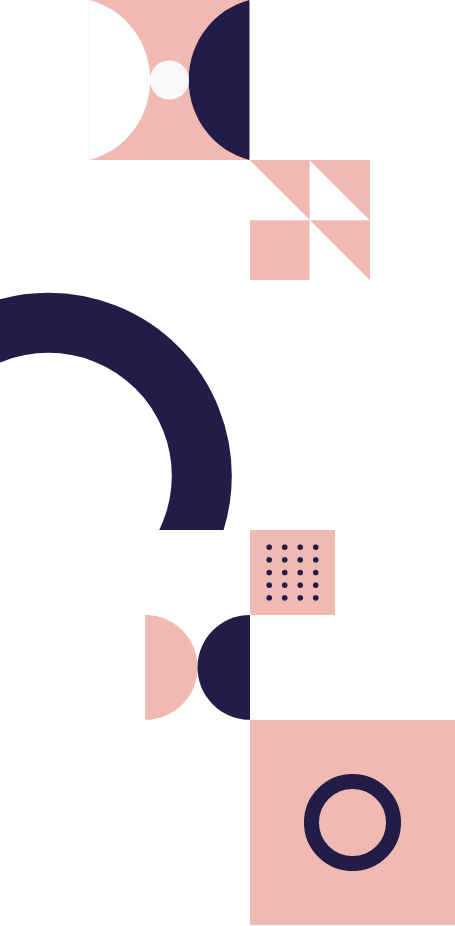
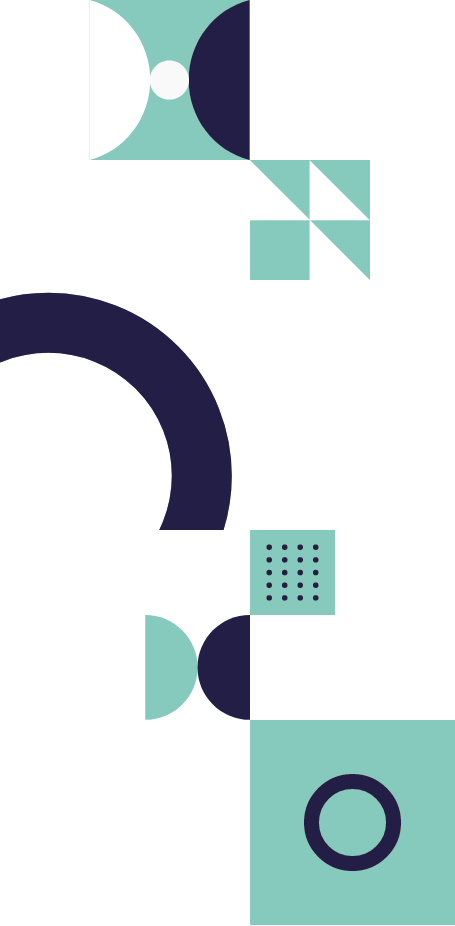
changed a shit ton of images (colors)

diff --git a/assets/css/style.css b/assets/css/style.css
@@ -2899,7 +2899,7 @@ FAQS Area CSS
 Fun Facts Area CSS
 =================================================*/
 .fun-facts-area {
-  background-image: url(../../assets/images/fun-facts-bg.jpg);
+  background-image: url(../../assets/images/datos-curiosos-fondo.jpg);
   background-position: center center;
   background-size: cover;
   background-repeat: no-repeat;
@@ -7283,7 +7283,7 @@ Pagination Area CSS
 Subscribe Area CSS
 =================================================*/
 .subscribe-inner-box {
-  background-image: url(../../assets/images/subscribe-bg.jpg);
+  background-image: url(../../assets/images/suscribirse-fondo.jpg);
   background-position: center center;
   background-size: cover;
   background-repeat: no-repeat;
